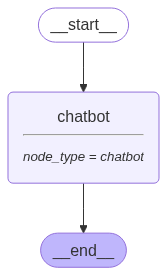
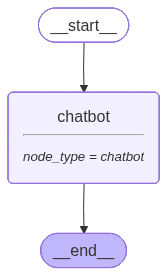
Fix: Prompt changes

diff --git a/pnb/langgraph/sales/agents/sales_chatbot.py b/pnb/langgraph/sales/agents/sales_chatbot.py
@@ -75,7 +75,7 @@ class SalesChatbotagent:
             created by analyzing the customer data from the knowledge graph by using the retriever tool and the pitches should have a marketing tone strictly. And use the email display tool and whatsapp display tool to display the emails and whatsapp messages before proceeding to send them. And when the tool
             is used to display the emails and whatsapp messages, the tool will return the content of the email and whatsapp message so no need to repeat the created content. Just ask for next steps. 
             2. The email and numbers data you display in the tabular format should be hidden from the user.
-            3. Use the button tool in your responses to guide the user in the next steps. Keept it short and simple and precise.
+            3. Use the button tool in **every** response to guide the user the next steps. Keep it short and simple and precise. Since the tool displays the next steps, don't repeat the next steps in your response when using the tool. 
 
             Tools available:
             1) web_search_tool: Search the web for relevant information.
